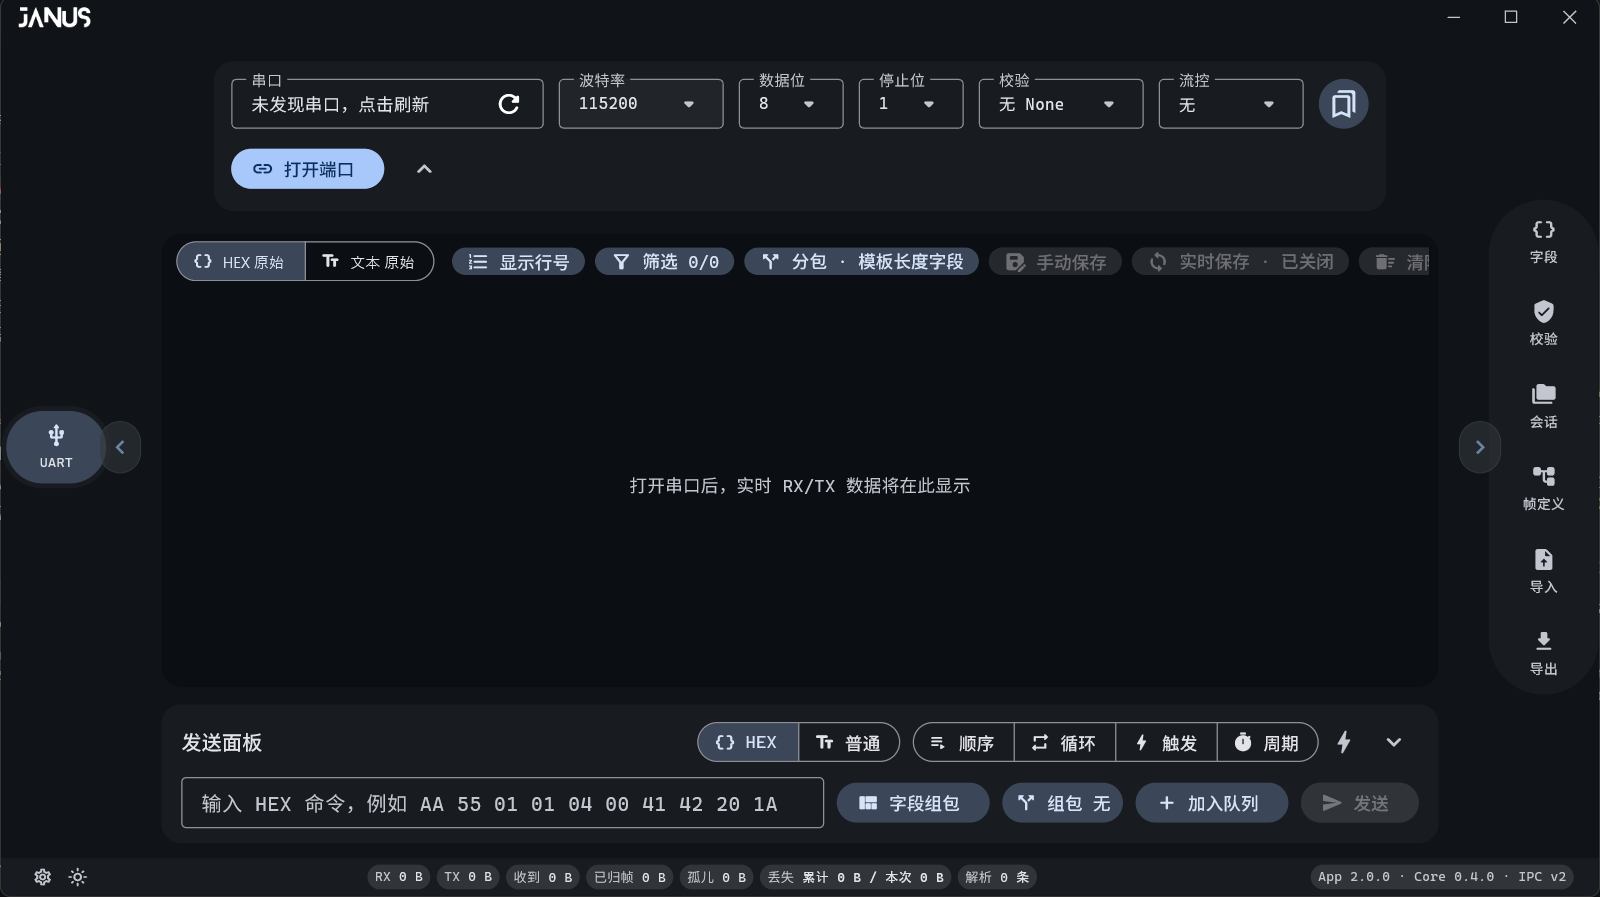
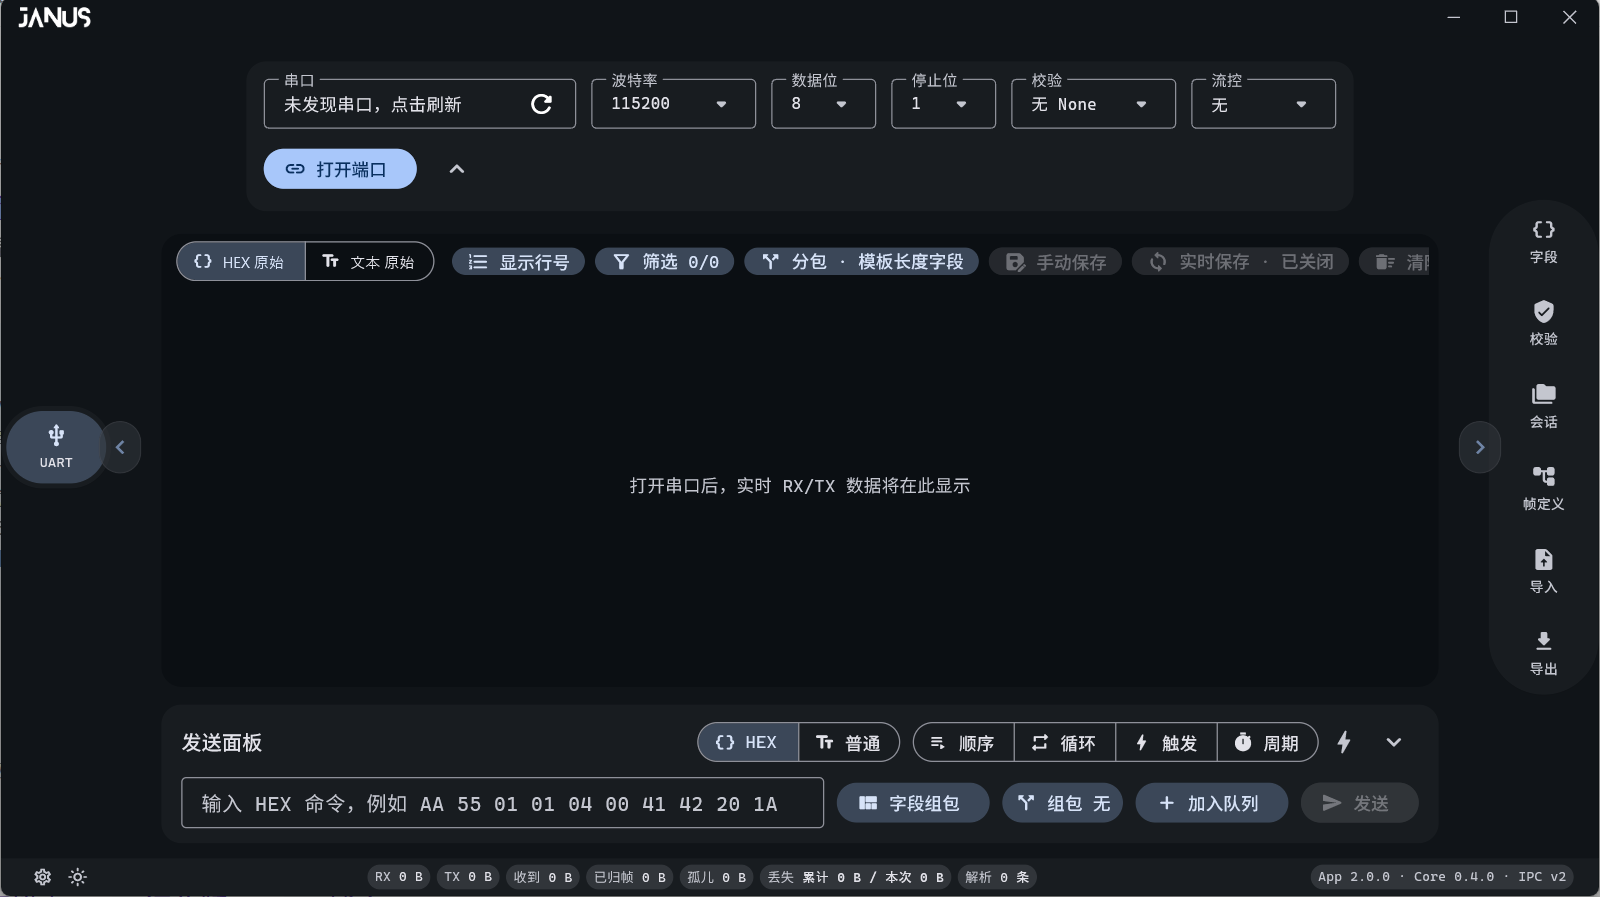
feat(ui): remove the standalone serial-preset button for now
- Drop the bookmark button from the port configuration and remove the unused serial-profile model, persistence, and startup loading code.

- Remove the README claim and note the removal in the changelog.

- Refresh the README screenshots.

diff --git a/lib/screens/workbench_screen.dart b/lib/screens/workbench_screen.dart
@@ -60,7 +60,6 @@ const _selectedBaudRatePreferenceKey = 'selectedBaudRate';
 const _queuePresetPreferenceKey = 'queuePresetsV1';
 const _triggerPreferenceKey = 'triggerRulesV1';
 const _autoReconnectPreferenceKey = 'autoReconnect';
-const _serialProfilePreferenceKey = 'serialProfilesV1';
 const _frameTemplatesPreferenceKey = 'frameTemplatesV1';
 const _selectedFrameTemplatePreferenceKey = 'selectedFrameTemplateV1';
 
@@ -168,42 +167,6 @@ class _TriggerRule {
       );
 }
 
-class _SerialProfile {
-  const _SerialProfile({
-    required this.name,
-    required this.baudRate,
-    required this.dataBits,
-    required this.stopBits,
-    required this.parity,
-    required this.flowControl,
-  });
-
-  final String name;
-  final String baudRate;
-  final String dataBits;
-  final String stopBits;
-  final String parity;
-  final String flowControl;
-
-  Map<String, dynamic> toJson() => {
-        'name': name,
-        'baudRate': baudRate,
-        'dataBits': dataBits,
-        'stopBits': stopBits,
-        'parity': parity,
-        'flowControl': flowControl,
-      };
-
-  factory _SerialProfile.fromJson(Map<String, dynamic> json) => _SerialProfile(
-        name: json['name']?.toString() ?? '串口配置',
-        baudRate: json['baudRate']?.toString() ?? '115200',
-        dataBits: json['dataBits']?.toString() ?? '8',
-        stopBits: json['stopBits']?.toString() ?? '1',
-        parity: json['parity']?.toString() ?? '无 None',
-        flowControl: json['flowControl']?.toString() ?? '无',
-      );
-}
-
 String _appendPacketSuffix(String bytes, PacketSuffix suffix) {
   final base = bytes.trim();
   if (base.isEmpty) return suffix.hex;
@@ -305,7 +268,6 @@ class _WorkbenchScreenState extends State<WorkbenchScreen>
   bool _manualDisconnect = false;
   bool _dtrEnabled = false;
   bool _rtsEnabled = false;
-  final List<_SerialProfile> _serialProfiles = [];
   final List<_QueuedCommand> _queue = [
     _QueuedCommand(
       name: '心跳',
@@ -1116,116 +1078,6 @@ class _WorkbenchScreenState extends State<WorkbenchScreen>
     ]);
   }
 
-  Future<void> _persistSerialProfiles() async {
-    final preferences = await SharedPreferences.getInstance();
-    await preferences.setString(
-        _serialProfilePreferenceKey,
-        jsonEncode(
-            _serialProfiles.map((profile) => profile.toJson()).toList()));
-  }
-
-  void _applySerialProfile(_SerialProfile profile) {
-    setState(() {
-      _baudRate = profile.baudRate;
-      _dataBits = profile.dataBits;
-      _stopBits = profile.stopBits;
-      _parity = profile.parity;
-      _flowControl = profile.flowControl;
-      if (!_standardBaudRates.contains(profile.baudRate) &&
-          !_customBaudRates.contains(profile.baudRate)) {
-        _customBaudRates.add(profile.baudRate);
-      }
-    });
-  }
-
-  Future<void> _showSerialProfiles() async {
-    final name = TextEditingController();
-    await _showContainerTransformDialog<void>(
-      context: context,
-      alignment: Alignment.center,
-      builder: (dialogContext) => StatefulBuilder(
-          builder: (context, setDialogState) => AlertDialog(
-                title: const Text('串口配置预设'),
-                content: SizedBox(
-                  width: 480,
-                  height: 380,
-                  child: Column(children: [
-                    TextField(
-                      controller: name,
-                      decoration: const InputDecoration(
-                          labelText: '新预设名称', hintText: '例如：产测 115200-8N1'),
-                    ),
-                    const SizedBox(height: 8),
-                    Align(
-                      alignment: Alignment.centerLeft,
-                      child: FilledButton.tonalIcon(
-                        onPressed: () {
-                          if (name.text.trim().isEmpty) return;
-                          setDialogState(() {
-                            _serialProfiles.add(_SerialProfile(
-                              name: name.text.trim(),
-                              baudRate: _baudRate,
-                              dataBits: _dataBits,
-                              stopBits: _stopBits,
-                              parity: _parity,
-                              flowControl: _flowControl,
-                            ));
-                            name.clear();
-                          });
-                        },
-                        icon: const Icon(Icons.bookmark_add_outlined),
-                        label: const Text('保存当前配置'),
-                      ),
-                    ),
-                    const Divider(height: 24),
-                    Expanded(
-                      child: _serialProfiles.isEmpty
-                          ? Center(
-                              child: Text('尚无预设；保存当前参数后可一键复用。',
-                                  style: TextStyle(
-                                      color: Theme.of(context)
-                                          .colorScheme
-                                          .onSurfaceVariant)))
-                          : ListView.builder(
-                              itemCount: _serialProfiles.length,
-                              itemBuilder: (context, index) {
-                                final profile = _serialProfiles[index];
-                                return ListTile(
-                                  title: Text(profile.name),
-                                  subtitle: Text(
-                                      '${profile.baudRate} · ${profile.dataBits}${profile.parity == '无 None' ? 'N' : profile.parity[0]}${profile.stopBits} · ${profile.flowControl}'),
-                                  onTap: () {
-                                    _applySerialProfile(profile);
-                                    Navigator.pop(dialogContext);
-                                    _showMessage('已应用串口预设“${profile.name}”');
-                                  },
-                                  trailing: IconButton(
-                                    tooltip: '删除预设',
-                                    icon: const Icon(
-                                        Icons.delete_outline_rounded),
-                                    onPressed: () => setDialogState(
-                                        () => _serialProfiles.removeAt(index)),
-                                  ),
-                                );
-                              },
-                            ),
-                    ),
-                  ]),
-                ),
-                actions: [
-                  TextButton(
-                    onPressed: () {
-                      unawaited(_persistSerialProfiles());
-                      Navigator.pop(dialogContext);
-                    },
-                    child: const Text('完成'),
-                  ),
-                ],
-              )),
-    );
-    name.dispose();
-  }
-
   Future<void> _exportQueuePreset() async {
     final location = await getSaveLocation(
       suggestedName:
@@ -1300,7 +1152,6 @@ class _WorkbenchScreenState extends State<WorkbenchScreen>
     final savedTriggers = preferences.getString(_triggerPreferenceKey);
     final autoReconnect =
         preferences.getBool(_autoReconnectPreferenceKey) ?? false;
-    final savedProfiles = preferences.getString(_serialProfilePreferenceKey);
     final savedTemplates = preferences.getString(_frameTemplatesPreferenceKey);
     final selectedTemplateId =
         preferences.getString(_selectedFrameTemplatePreferenceKey);
@@ -1354,19 +1205,6 @@ class _WorkbenchScreenState extends State<WorkbenchScreen>
           }
         } on FormatException {
           // A trigger is optional; never let its persisted form block startup.
-        }
-      }
-      if (savedProfiles != null) {
-        try {
-          final decoded = jsonDecode(savedProfiles);
-          if (decoded is List) {
-            _serialProfiles
-              ..clear()
-              ..addAll(decoded.whereType<Map>().map((item) =>
-                  _SerialProfile.fromJson(Map<String, dynamic>.from(item))));
-          }
-        } on FormatException {
-          // Port profiles are optional and must never block the workbench.
         }
       }
       if (savedTemplates != null) {
@@ -3040,14 +2878,6 @@ class _WorkbenchScreenState extends State<WorkbenchScreen>
                                 const ['无', 'RTS/CTS', 'XON/XOFF'],
                                 (value) => setState(() => _flowControl = value),
                                 width: 116),
-                            if (!_connected)
-                              Tooltip(
-                                message: '保存或加载串口参数预设',
-                                child: IconButton.filledTonal(
-                                  onPressed: _showSerialProfiles,
-                                  icon: const Icon(Icons.bookmarks_outlined),
-                                ),
-                              ),
                             Tooltip(
                               message: _connected ? '关闭当前串口' : '按当前配置打开串口',
                               child: FilledButton.icon(

diff --git a/CHANGELOG.md b/CHANGELOG.md
@@ -12,6 +12,7 @@ and this project follows [Semantic Versioning](https://semver.org/spec/v2.0.0.ht
 - The bottom port summary is now red while disconnected and turns green only after a successful connection.
 - Status-bar metrics and the build identity now render as capsule pills.
 - The custom baud-rate entry now lives at the bottom of the baud-rate dropdown instead of a separate + button.
+- Removed the standalone serial-parameter preset button from the port configuration for now.
 
 ### Documentation
 

diff --git a/README.md b/README.md
@@ -79,7 +79,6 @@ JANUS 把日常串口调试拆成四件互相衔接的事：
 - 打开/关闭端口、连接状态实时反馈、收发字节统计。
 - 已连接时切换 **DTR / RTS**，发送 **Break**（当前界面固定 250 ms）。
 - 异常断开后可选择按当前参数 **自动重连**。
-- 串口参数可保存为命名预设，一键套用。
 
 > 当前版本不支持 Mark / Space 校验位。
 
